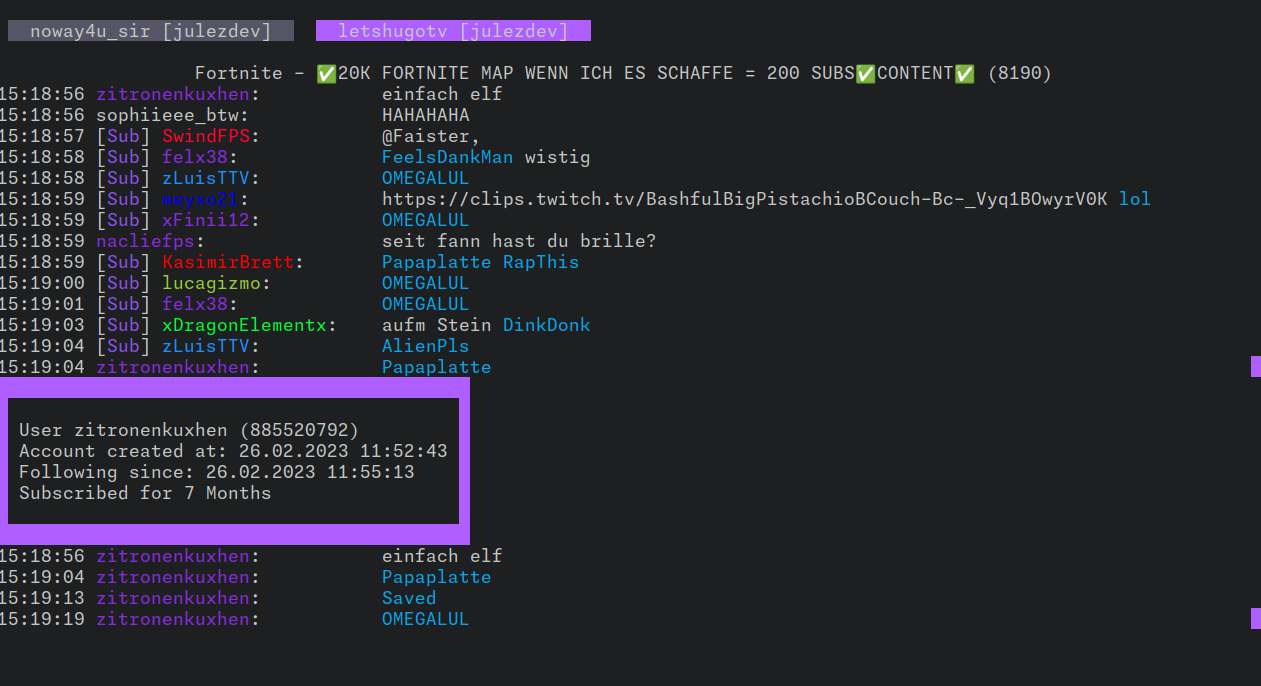
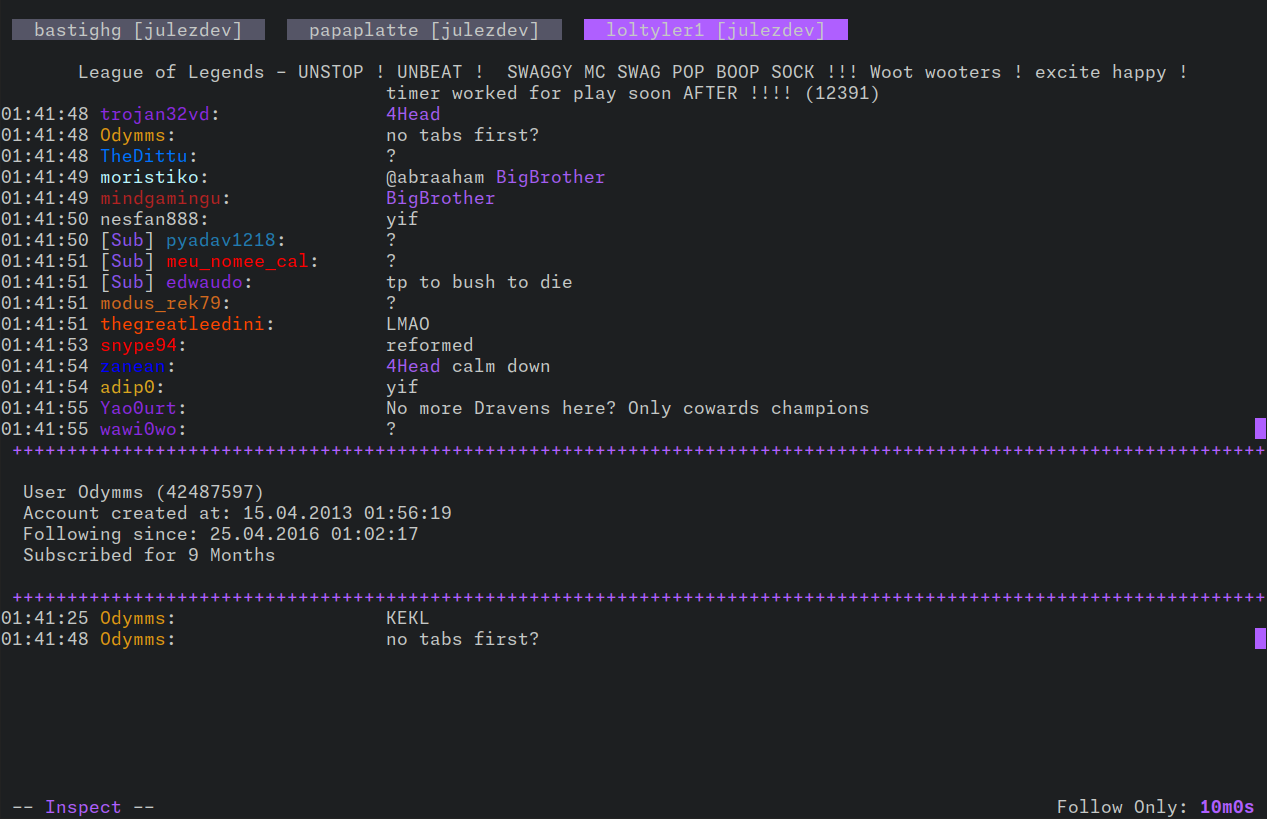
improve visuals of user inspect view border

diff --git a/ui/mainui/user_inspect.go b/ui/mainui/user_inspect.go
@@ -144,11 +144,16 @@ func (u *userInspect) handleResize() {
 }
 
 func (u *userInspect) renderUserInfo() string {
+	border := lipgloss.Border{
+		Top:    "+",
+		Bottom: "+",
+	}
+
 	style := lipgloss.NewStyle().
 		Padding(1).
-		Border(lipgloss.BlockBorder(), true).
-		BorderForeground(lipgloss.Color("135"))
-		// Width(u.width)
+		Border(border, true).
+		BorderForeground(lipgloss.Color("135")).
+		Width(u.width)
 
 	styleCentered := style.Copy().MaxWidth(u.width).AlignHorizontal(lipgloss.Center)
 
